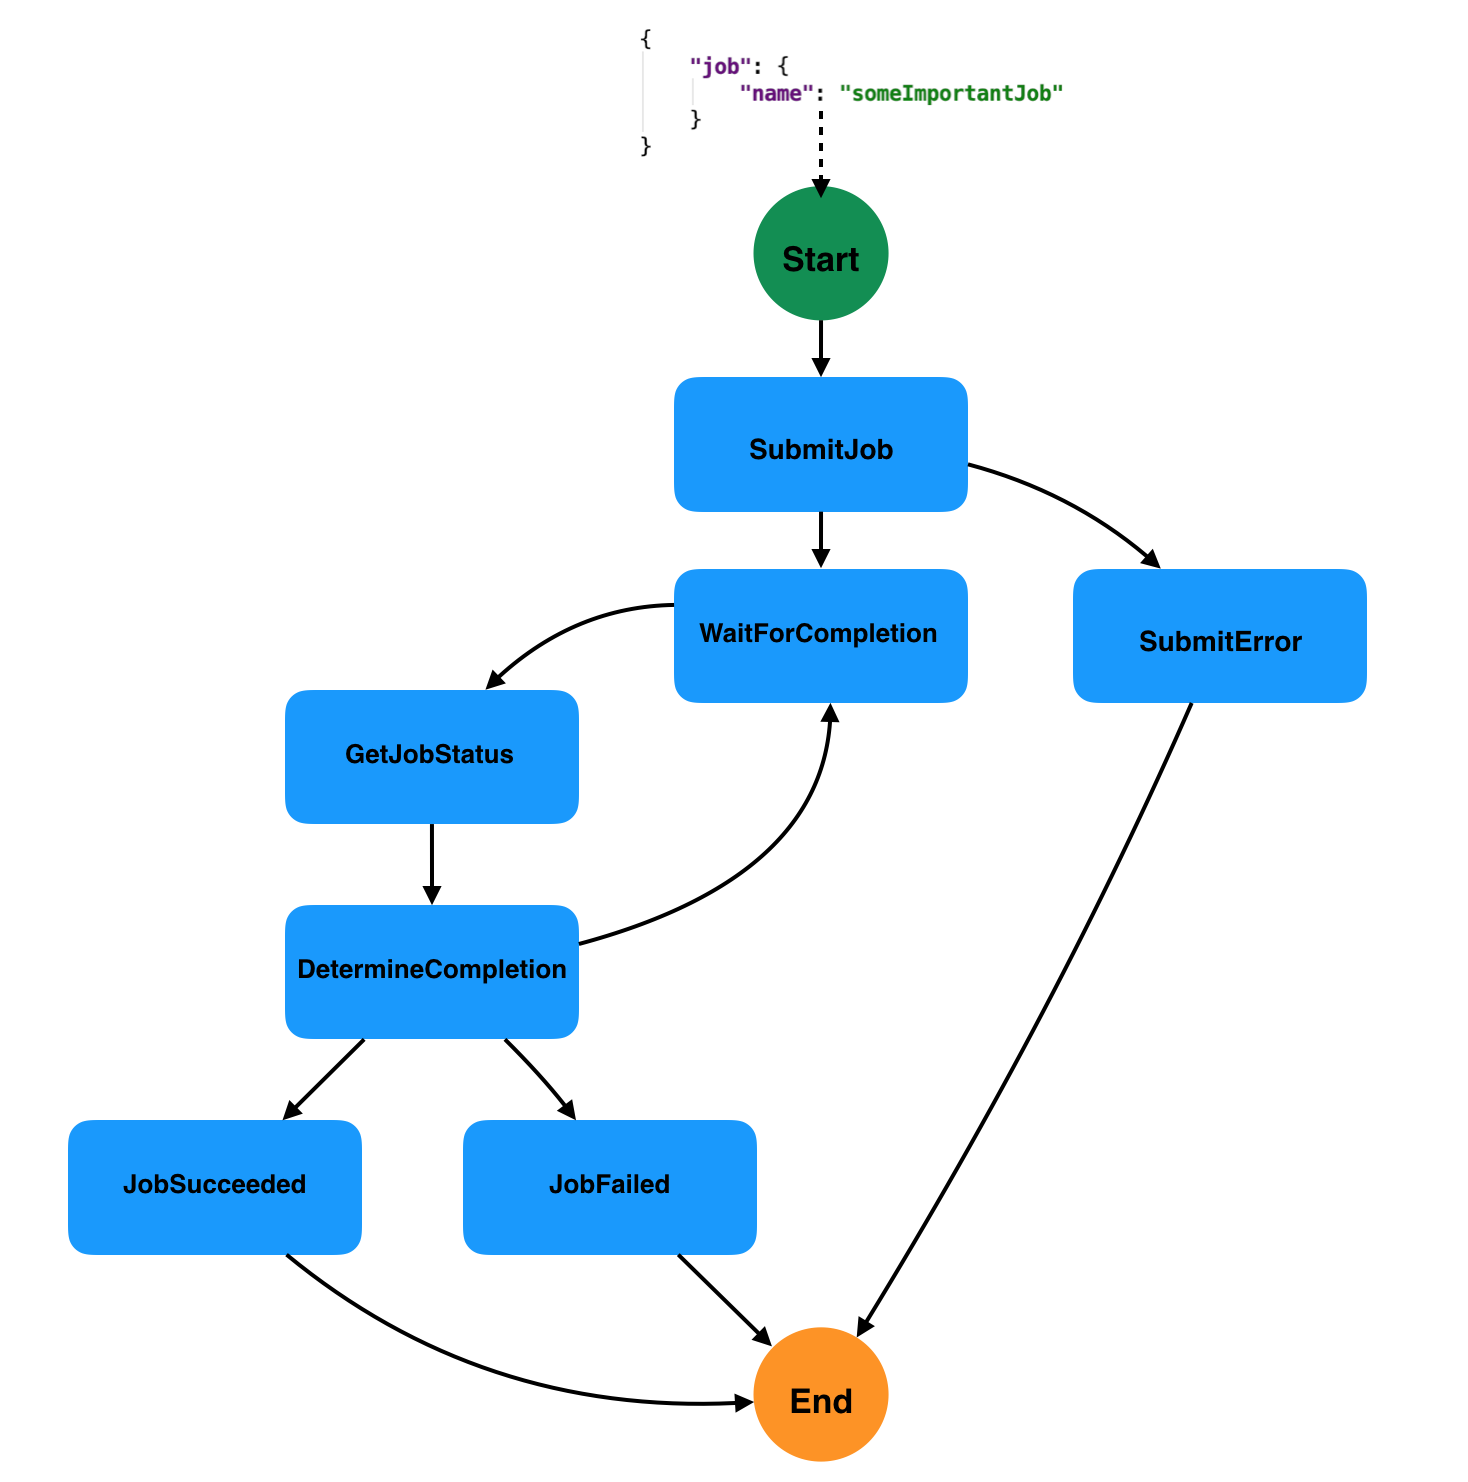
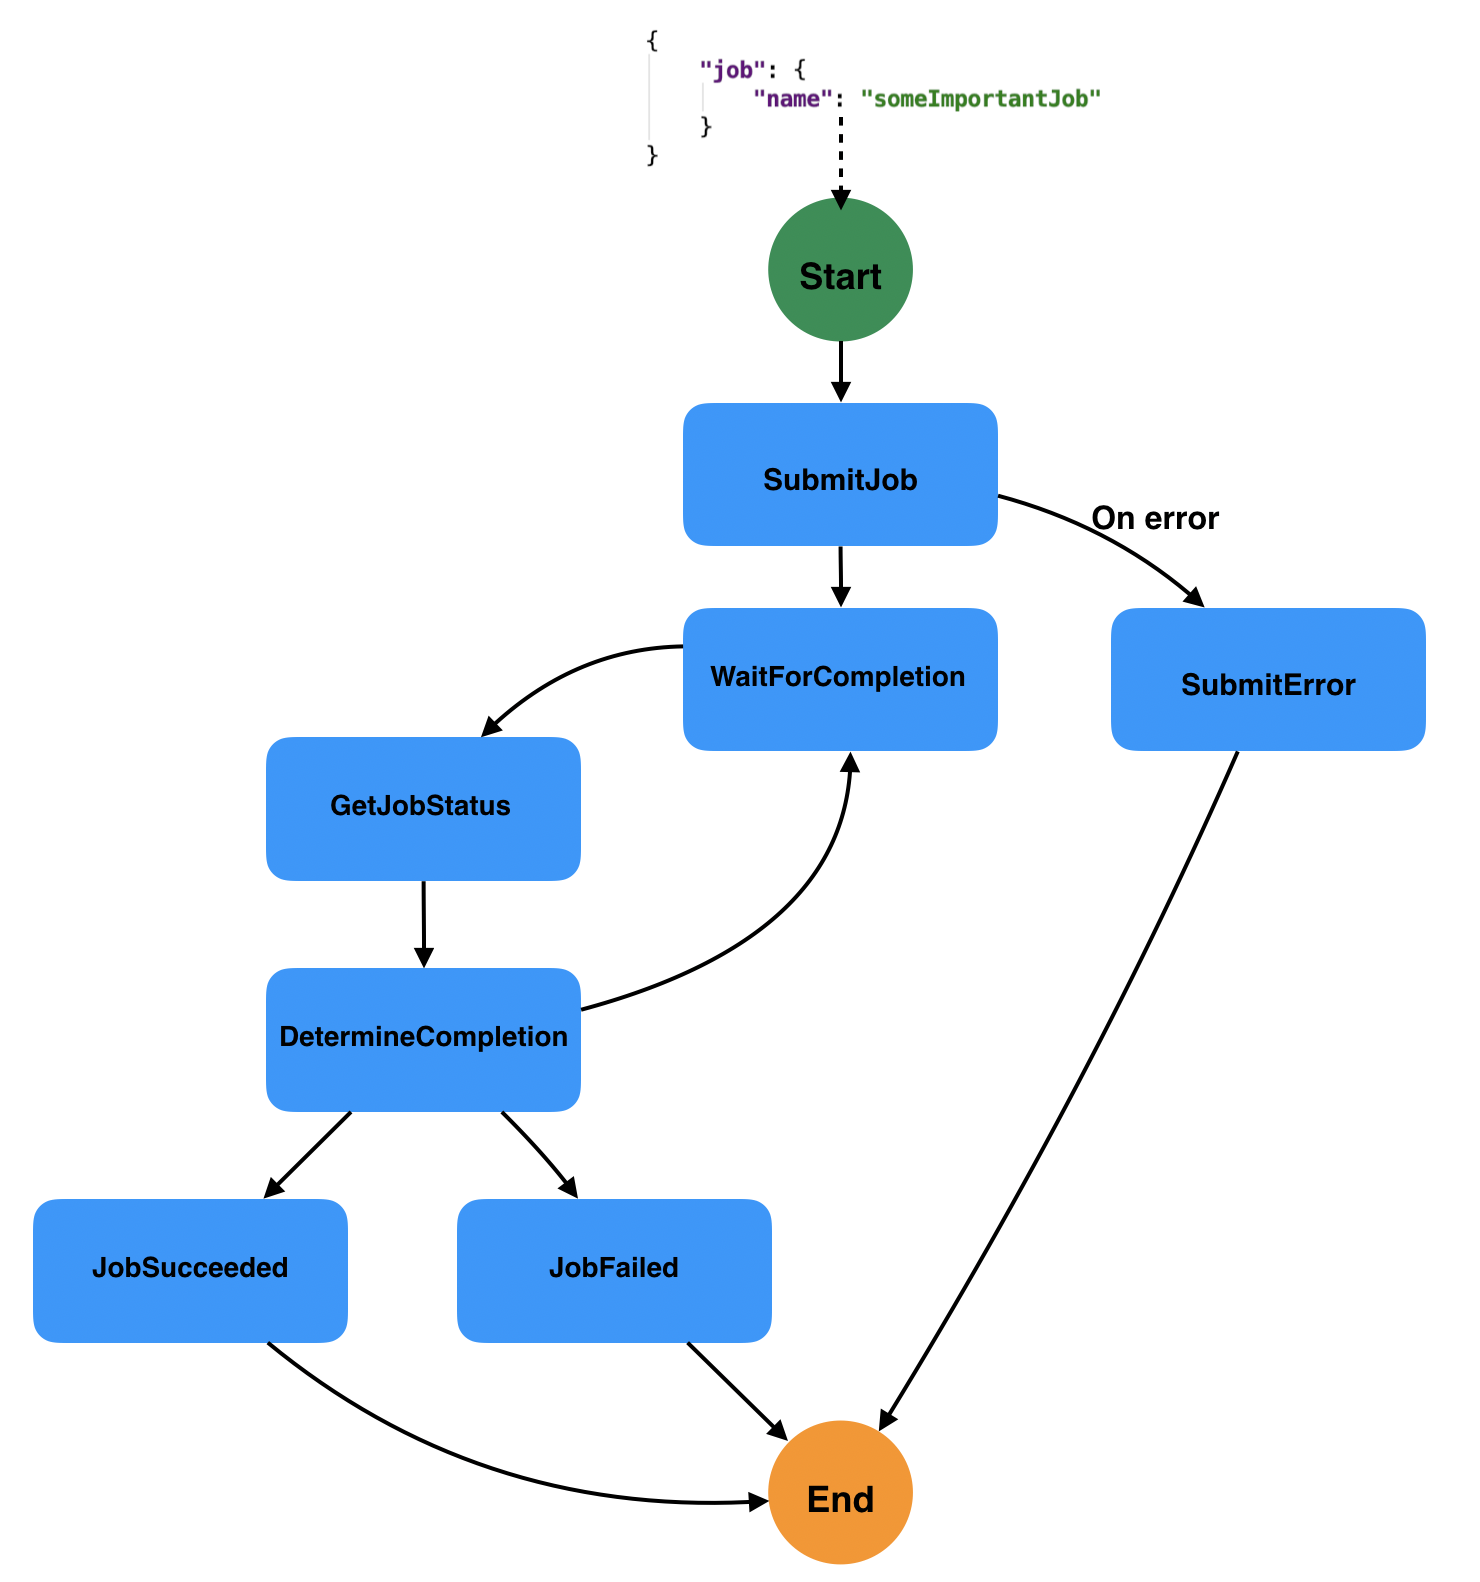
small fixes for subflow state actions

diff --git a/examples/README.md b/examples/README.md
@@ -1045,7 +1045,8 @@ Depending on the results of this we either return the results or transition back
 This is done until the job submission returns "SUCCEEDED" or "FAILED" and the job submission results are reported before workflow
 finishes execution.
 
-In the case job submission raises a runtime error, we transition to a SubFlow state which handles the job submission issue.
+In the case job submission raises a runtime error, we transition to an Operation state which invokes
+ a sub-flow responsible for handling the job submission issue.
 
 #### Workflow Diagram
 
@@ -1115,7 +1116,7 @@ In the case job submission raises a runtime error, we transition to a SubFlow st
       "stateDataFilter": {
           "output": "${ .jobuid }"
       },
-      "transition": "WaitForCompletion'"
+      "transition": "WaitForCompletion"
   },
   {
       "name": "SubmitError",
@@ -1961,7 +1962,7 @@ And for denied credit check, for example:
             "dataConditions": [
                 {
                     "condition": "${ .creditCheck | .decision == \"Approved\" }",
-                    "transition": "StartApplication'"
+                    "transition": "StartApplication"
                 },
                 {
                     "condition": "${ .creditCheck | .decision == \"Denied\" }",

diff --git a/comparisons/comparison-bpmn.md b/comparisons/comparison-bpmn.md
@@ -353,15 +353,15 @@ states:
 - name: SubflowRepeat
   type: operation
   actions:
-  - subFlowRef: checkAndReplyToEmail
-  actionDataFilter:
-    fromStateData: ${ .someInput }
-    toStateData: ${ .someInput }
+  - functionRef: checkAndReplyToEmail
+    actionDataFilter:
+      fromStateData: ${ .someInput }
+      toStateData: ${ .someInput }
   stateDataFilter:
     output: ${ .maxChecks -= 1 }
   transition: CheckCount
 - name: CheckCount
-  type: Switch
+  type: switch
   dataConditions:
   - condition: ${ .maxChecks > 0 }
     transition: SubflowRepeat
